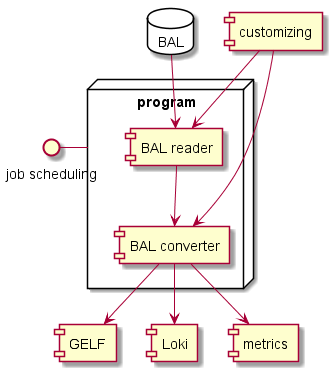
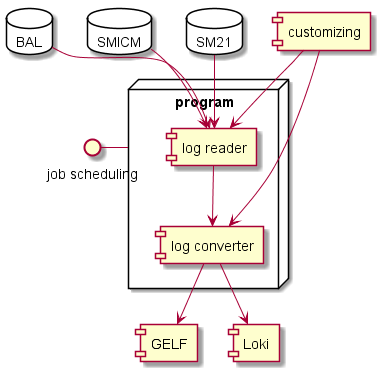
rename to abap-log-exporter

diff --git a/README.md b/README.md
@@ -1,7 +1,7 @@
-# abap-BAL-exporter :construction: WIP
+# abap-log-exporter :construction: WIP
 
-[![Known Vulnerabilities](https://snyk.io/test/github/JohannesKonings/abap-BAL-exporter/badge.svg?targetFile=package.json)](https://snyk.io/test/github/JohannesKonings/abap-BAL-exporter?targetFile=package.json)
-![Run abaplint](https://github.com/JohannesKonings/abap-BAL-exporter/workflows/Run%20abaplint/badge.svg)
+[![Known Vulnerabilities](https://snyk.io/test/github/JohannesKonings/abap-log-exporter/badge.svg?targetFile=package.json)](https://snyk.io/test/github/JohannesKonings/abap-log-exporter?targetFile=package.json)
+![Run abaplint](https://github.com/JohannesKonings/abap-log-exporter/workflows/Run%20abaplint/badge.svg)
 
 # architecture
 
